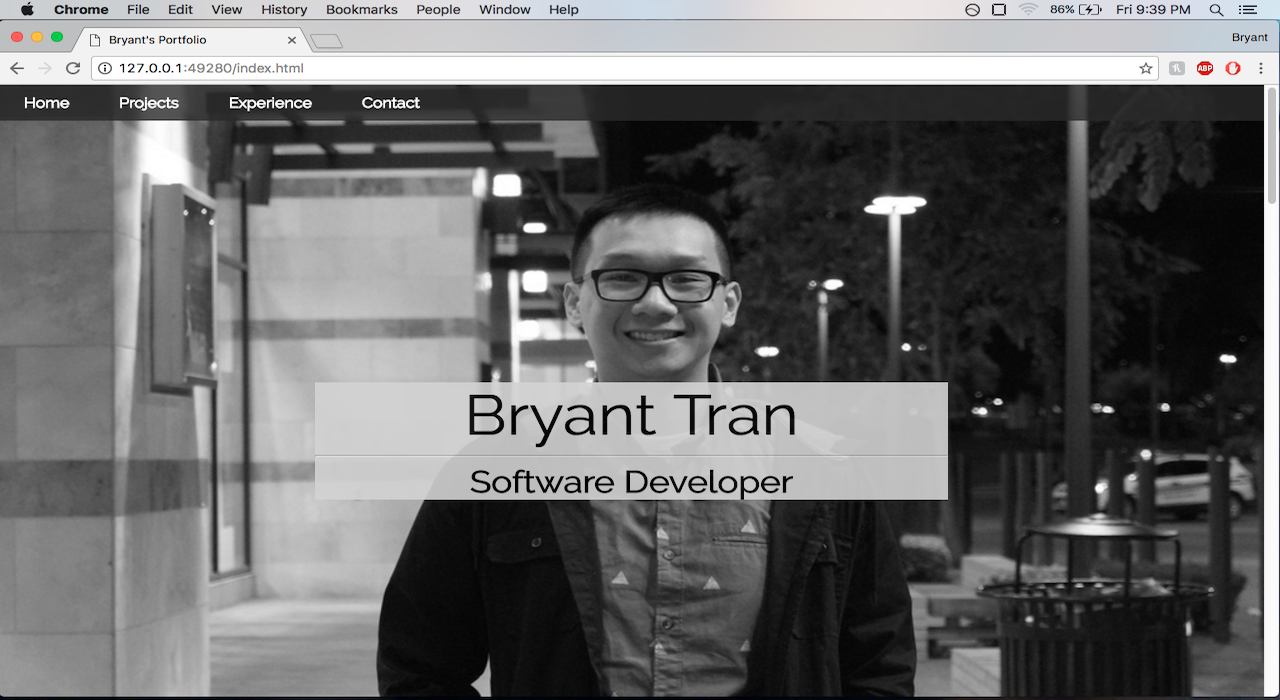
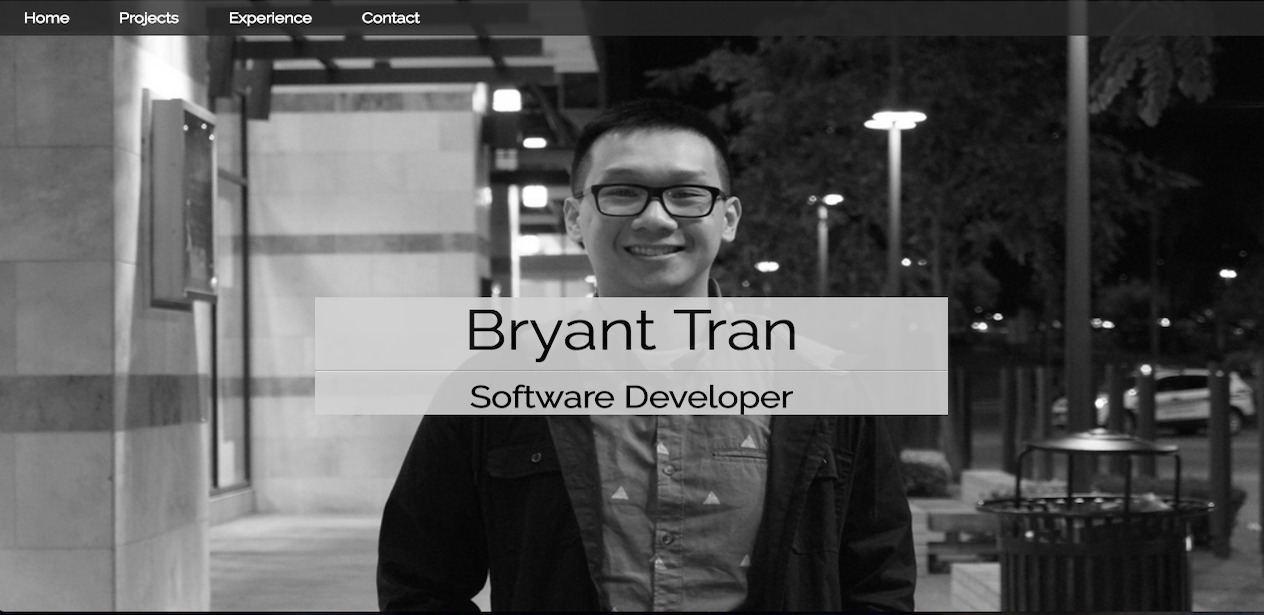
resolution changes

diff --git a/index.html b/index.html
@@ -4,7 +4,6 @@
 		<meta charset="UTF-8">
 		<title>Bryant's Portfolio</title>
         <link rel="stylesheet" href="css/style.css" type="text/css">
-        <link rel="stylesheet" href="/css/animate.css" type="text/css">
         <link href='css/raleway.css' rel='stylesheet' type='text/css'>
 	</head>
 	<body>
@@ -20,7 +19,7 @@
         </div> 
         
         <!--Banner section-->
-        <div class="banner-container" >    
+        <div class="banner-container">    
             <div class = "banner-inner">
                 <div class = "banner-box" >
                     <h1>Bryant Tran</h1>
@@ -28,9 +27,7 @@
                     <h2>Software Developer</h2>
                 </div>
             </div>
-           <!--use JS to change style of bottom of image/opacity-->
         </div>
-        
         
         <!--Introduction section-->
         <div class = "introduction-container">
@@ -59,17 +56,15 @@
                             </h3>
                         </span>
                         <img src="Pictures/Portfolio.png">
-                        
                     </div>
                 </div>
-
-                
                 <div class = "project-description">
                     <a href="https://github.com/bryanttran/bryanttran.github.io">
                         Github Source code
                     </a>
                 </div>
             </div>
+            
             <div class = "project-2">
                 <div class = "image-container">
                     <div class= "image">
@@ -83,6 +78,7 @@
                             </h3>
                         </span>
                         <img src="Pictures/SlugSearch/snip1.png">
+                        
                         <div class="modal" id="myModal">
                             <!-- Modal content -->
                             <div class="modal-content">
@@ -116,26 +112,20 @@
                                             
                                             <p>SlugSearch is a mobile application that lets you 
                                                 search through UC Santa Cruz's past and current
-                                                classes. The aim was to
-                                                have an application on mobile to search for
-                                                classes efficiently, since UC Santa Cruz's website is not 
-                                                mobile friendly, and has many bugs compared to
-                                                its desktop application. 
-                                                
-                                                Our application also includes ratings scraped from the 
-                                                website RateMyProfessor which includes an average 
-                                                ratings from the reviews and average grade on the 
-                                                professor. 
-                                                
-                                                explain a little more, rate my professor
+                                                classes. The aim was to have an application on mobile to 
+                                                search for classes efficiently, since UC Santa Cruz's 
+                                                website is not mobile friendly, and has many bugs 
+                                                compared to its desktop application. Our application also 
+                                                includes ratings scraped from the website RateMyProfessor 
+                                                which includes an average ratings from the reviews and 
+                                                average grade on the professor.     
                                             </p>
                                             
                                             <h3>Development steps</h3>
                                             <br />
-
+                                            
                                             <h4>1. Research</h4>
-                                            <p> One of
-                                                the main issues in the research stage was to learn
+                                            <p> One of the main issues in the research stage was to learn
                                                 a whole new framework and language. We decided to
                                                 use the Ionic Framework, since it is capable of 
                                                 building on both iOS and Android. By using AngularJS' 
@@ -178,16 +168,15 @@
                                                 in order to have a cart to store desired classes.
                                             </p>
                                             <h4>3. Launch</h4>
-                                            <p>At the end of the
-                                                quarter, we presented our project, what
+                                            <p>At the end of the quarter, we presented our project, what
                                                 we did during our three sprints, and a live quality 
                                                 assurance test to confirm the stability of the
-                                                application to the class. Some 
-                                                of these story plots consisted of push
-                                                notifications and a live schedule to see time slots 
-                                                of the week.
+                                                application to the class. Although we did not decide to
+                                                continue with the progression of our project, I gathered 
+                                                a lot of insight working with peers while learning and 
+                                                keeping up with scrum methodology and git.
                                                 
-                                                edit this more
+                                                <!--check-->
                                             </p>
                                         </div>
                                     </div>
@@ -198,7 +187,6 @@
                                     </div>
                                     <img src="Pictures/SlugSearch/snip2.png">
                                     <img src="Pictures/SlugSearch/snip3.png">
-                                    
                                 </div>
                                 <div class="modal-footer">
                                    <a href="https://github.com/Andylicious/TeamHipster_IonicSC">
@@ -207,11 +195,9 @@
                                 </div>
                             </div>
                         </div>
-                        
                     </div>
                 </div>
 
-                
                 <div class = "project-description">
                     <a href="https://github.com/Andylicious/TeamHipster_IonicSC">
                         Github Source code
@@ -246,7 +232,6 @@
                                                     Created a web application to allow UC Santa Cruz
                                                     students to buy and sell books, similar to a forum.
                                                 </p>
-
                                                 <h3>What I Utilized</h3> 
                                                 <p>
                                                     HTML5 <br /> 
@@ -255,10 +240,11 @@
                                                 </p>
                                             </div>
                                             <div class="modal-body-right">
-                                                <br /><h3>Created a web application to effectively
+                                                <br />
+                                                <h3>Created a web application to effectively
                                                 buy and sell books to peers.
                                                 </h3>
-
+                                                
                                                 <p>UCSC Slugbook Exchange is a web application used to 
                                                     trade books of all subjects. The application was 
                                                     created on the Web2Py Framework, which allowed us to 
@@ -298,14 +284,16 @@
                                                     I ventured onto user experience content, which some 
                                                     were implemented, and some were not.
                                                 </p>
+                                                
                                                 <h4>3. Launch</h4>
-                                                <p>With this being a class project, at the end of the
-                                                    quarter we gave a presentation of our project.
-                                                    Some of the more time consuming features were not 
-                                                    implemented due to the time constraints. Some 
-                                                    features that were not implemented were FaceBook
-                                                    login, a dedicated hosting server, ucsc.edu email 
-                                                    check, and direct messaging. 
+                                                <p>At the end of the quarter we gave a presentation of 
+                                                    our project. Some planned features for this project 
+                                                    were not implemented. Some features that were not 
+                                                    implemented were FaceBooklogin, a dedicated hosting 
+                                                    server, ucsc.edu email check, and direct messaging. 
+                                                    After finishing this project, I have learned that 
+                                                    ideas may not go according to plan and to make the 
+                                                    best of it.
                                                 </p>
                                             </div>
                                         </div>
@@ -333,35 +321,31 @@
         <div class = "experience-container" id="experience">
             <h2 class = "heading">Experience</h2>
             <div class = "experience-1-container">
-                    
-                    <div class = "experience-1-img">
-                        <img class = "experience-img" src="Pictures/experience/7L.jpg">
+                <div class = "experience-1-img">
+                    <img class = "experience-img" src="Pictures/experience/7L.jpg">
+                </div>
+                <div class = "experience-1-description">
+                    <div class = "title-location">
+                        <span class="valign">
+                            <h3 class = "experience-title">7layers | </h3>
+                            <span class = "experience-location">Sunnyvale, CA</span>
+                        </span>
                     </div>
-                    <div class = "experience-1-description">
-                        <div class = "title-location">
-                            <span class="valign">
-                                <h3 class = "experience-title">7layers | </h3>
-                                <span class = "experience-location">Sunnyvale, CA</span>
-                            </span>
-                        </div>
-                        <div class = "position-date">
-                            <span class="valign">
-                                <h4 class = "experience-position">Test Session operator</h4>
-                                <span class = "experience-date">July 2015 - Present</span>
-                            </span>
-                        </div>
-                        <div class="experience-description">
-                            <p>
-                                While receiving hands on OTA testing, I troubleshoot occasional bugs
-                                while being on track of time. 
-                                
-                                Talking to on-site customers and assisting
-                                them with their needs allows me to gain a variety of knowledge while
-                                tests are being run.
-                            </p>
-                        </div>
+                    <div class = "position-date">
+                        <span class="valign">
+                            <h4 class = "experience-position">Test Session operator</h4>
+                            <span class = "experience-date">July 2015 - Present</span>
+                        </span>
                     </div>
-                
+                    <div class="experience-description">
+                        <p>
+                            While receiving hands on OTA testing, I troubleshoot occasional bugs
+                            while being on track of time. Talking to on-site customers and assisting
+                            them with their needs allows me to gain a variety of knowledge while
+                            tests are being run.
+                        </p>
+                    </div>
+                </div>
             </div>
             
             <div class = "experience-2-container">

diff --git a/css/style.css b/css/style.css
@@ -30,7 +30,7 @@ h2 { /*used for headings of intro, projects and experience*/
 }
 
 h3 { /*used for small headings and descriptions*/
-    font-size: 1.7em;
+    font-size: 1.8em;
 }
 
 p {
@@ -84,7 +84,7 @@ img {
     text-align: center;
     top: 50%;
     left: 50%;
-    padding-top: 300px;
+    padding-top: 50vh;
 }
 
 .banner-box {
@@ -97,7 +97,7 @@ img {
     height: 50%;
     background: lightgrey;
     opacity: .9;
-    animation: fadein 2.5s;
+    animation: fadein 1.5s;
 }
 
 @keyframes fadein {
@@ -331,14 +331,17 @@ img {
 
 .modal-body-left > p, .modal-body-right > p { /*for description in modals*/
     text-align: left;
-    padding: .6em 0;
+    padding: .4em 0;
     color: #545454;
     line-height: 150%;
+    font-weight: bold;
+    font-size: 1.1em;
 }
 
 .modal-body-left > h3, .modal-body-right > h3 { /*for titles in modals*/
     text-align: left;
     font-weight: 600;
+    font-size: 2em;
 }
 
 .modal-body-right > h4 { /*for subtitles in modal*/
@@ -375,7 +378,6 @@ img {
     background: #B86262;
 }
 
-/* Add Animation */
 @-webkit-keyframes animatetop {
     0% {
         transform: translateY(-150px);

diff --git a/js/main.js b/js/main.js
@@ -77,6 +77,7 @@ $("#myModal").on("show", function () {
     $("body").css('overflow', 'auto')
 });
 
+/*used for opacity on scroll for banner box*/
 var bannerbox = $('.banner-box');
 var range = 410;
 
